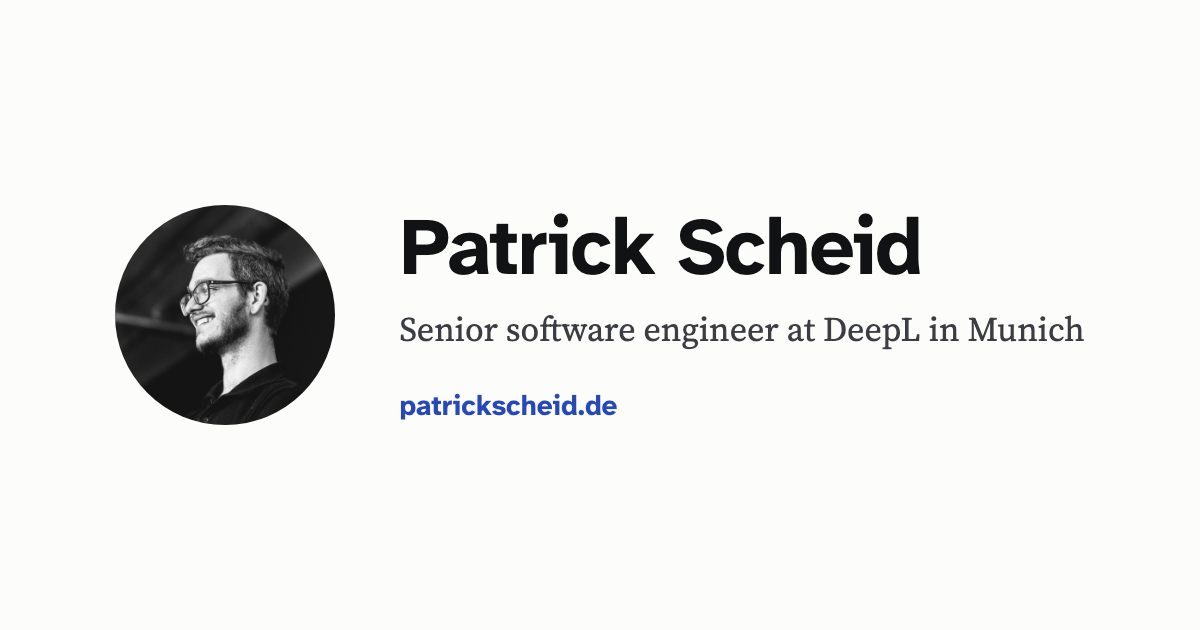
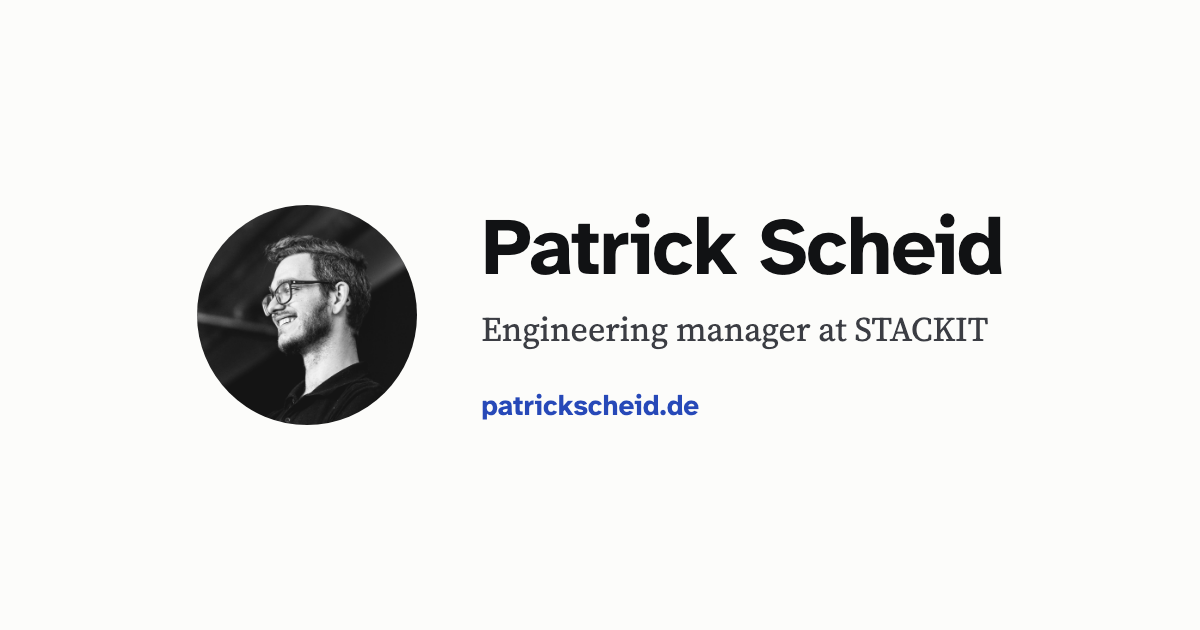
Update the site for the new role at STACKIT; align DeepL dates with the CV
- Engineering Manager for Identity and Access Management at STACKIT since October 2026: home intro, About, post footer, page and feed titles, link-preview card
- About: new STACKIT entry; DeepL dates match the CV (Engineering Manager Dec 2023 - Feb 2026, Senior Software Engineer Feb - Sep 2026)
- 10+ years of experience instead of 9+

Changed region(s): [[0.0925, 0.3016, 0.925, 0.6937]]

diff --git a/src/pages/rss.xml.js b/src/pages/rss.xml.js
@@ -4,8 +4,8 @@ import rss from '@astrojs/rss';
 export async function GET(context) {
 	const posts = (await getCollection('blog')).filter((post) => import.meta.env.DEV || !post.data.draft);
 	return rss({
-		title: 'Patrick Scheid - Senior Software Engineer',
-		description: 'Senior Software Engineer at DeepL in Munich. Combining software engineering, data science, product management, and engineering leadership to build AI-powered products.',
+		title: 'Patrick Scheid - Engineering Manager',
+		description: 'Engineering Manager at STACKIT, leading the Identity and Access Management team. Writing about cryptography, Kubernetes, and engineering leadership.',
 		site: context.site,
 		items: posts.map((post) => ({
 			...post.data,
